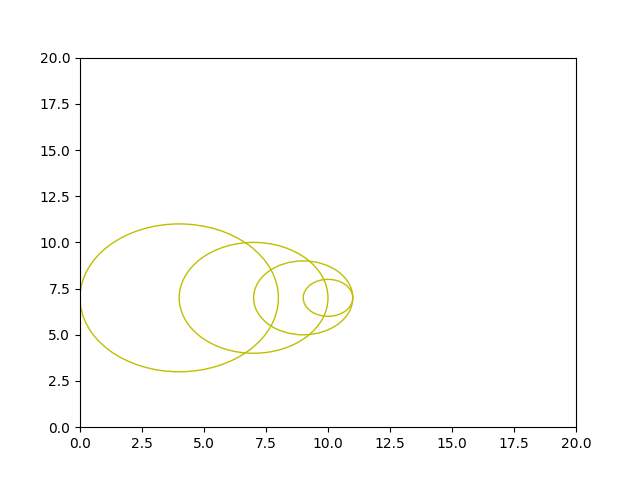
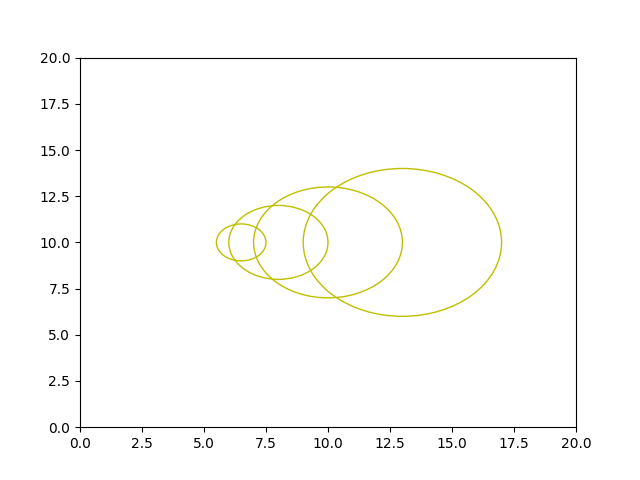
jbtf

diff --git a/projoct.py b/projoct.py
@@ -6,11 +6,11 @@ v=int(input('скрость тела:'))
 if (v < V1):
   circle1 = plt.Circle((5 , 5), 1, color='y',fill=False)
 
-  circle2 = plt.Circle((5 , 5), 2, color='y' ,fill=False)
+  circle2 = plt.Circle((4.5 , 5), 2, color='y' ,fill=False)
 
-  circle3 = plt.Circle((5 , 5), 3, color='y' ,fill=False)
+  circle3 = plt.Circle((4 , 5), 3, color='y' ,fill=False)
 
-  circle4 = plt.Circle((5 , 5), 4, color='y' ,fill=False)
+  circle4 = plt.Circle((3.5 , 5), 4, color='y' ,fill=False)
 
   fig, ax = plt.subplots() 
   ax.set_xlim((0, 10))
@@ -27,13 +27,13 @@ if (v < V1):
 
 
 elif (v == V1):
-  circle1 = plt.Circle((10 , 7), 1, color='y',fill=False)
+  circle1 = plt.Circle((17.5 , 12.5), 1, color='y',fill=False)
 
-  circle2 = plt.Circle((9 , 7), 2, color='y' ,fill=False)
+  circle2 = plt.Circle((16.5 , 12.5), 2, color='y' ,fill=False)
 
-  circle3 = plt.Circle((7 , 7), 4, color='y' ,fill=False)
+  circle3 = plt.Circle((14.5 , 12.5), 4, color='y' ,fill=False)
 
-  circle4 = plt.Circle((4 , 7), 8, color='y' ,fill=False)
+  circle4 = plt.Circle((10.5 , 12.5), 8, color='y' ,fill=False)
 
   fig, ax = plt.subplots() 
   ax.set_xlim((0, 25))
@@ -51,7 +51,7 @@ elif (v == V1):
 
 
 elif (v > V1):
-  circle1 = plt.Circle((6 , 10), 1, color='y',fill=False)
+  circle1 = plt.Circle((6.5 , 10), 1, color='y',fill=False)
 
   circle2 = plt.Circle((8 , 10), 2, color='y' ,fill=False)
 
